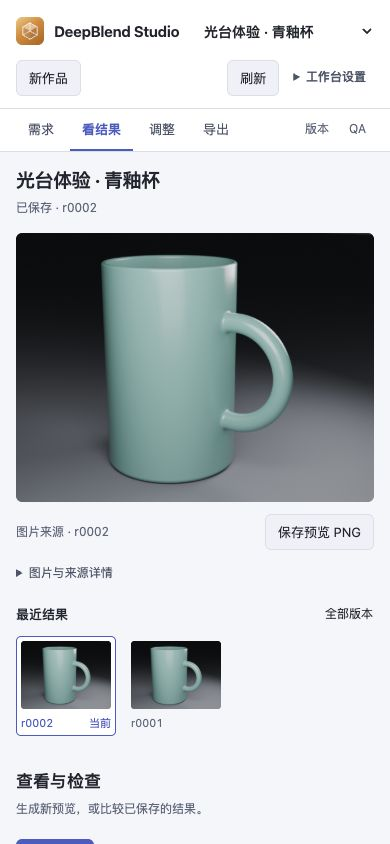
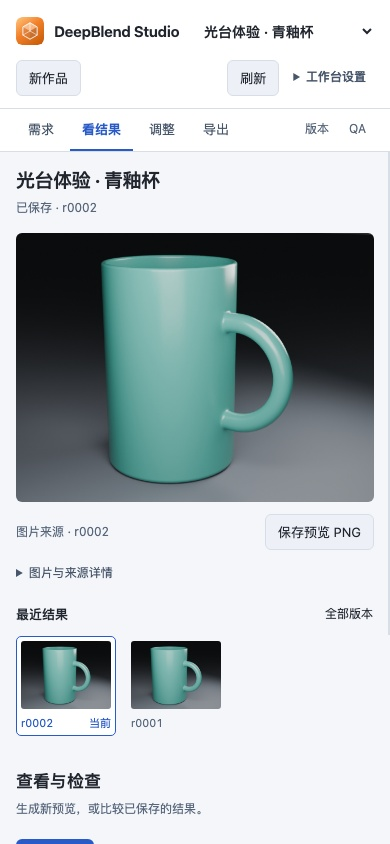
fix: align fitted-view contracts and current workbench provenance

diff --git a/packages/deepblend/tool/lib/tools.js b/packages/deepblend/tool/lib/tools.js
@@ -166,7 +166,14 @@ function cameraFit(ctx) {
           throw new BlenderError(BlenderErrorCode.RUNTIME_UNAVAILABLE,
             'This Host cannot save verified fitted views. Update the DeepBlend Host bundle and restart the profile before retrying.')
         }
-        const { data, canonicalWarnings } = await canonicalCall(resolved.studio.fitCamera({ ...args, signal: exec?.signal }), warning)
+        const { projectId, baseRevision, entityIds, cameraId, fittedCameraId, frame, margin, renderPreview, idempotencyKey, ...extra } = args
+        const { data, canonicalWarnings } = await canonicalCall(resolved.studio.fitCamera({
+          ...extra, projectId, baseRevision, entityIds, cameraId, fittedCameraId, frame,
+          ...(margin === undefined ? {} : { margin }),
+          ...(renderPreview === undefined ? {} : { renderPreview }),
+          ...(idempotencyKey === undefined ? {} : { idempotencyKey }),
+          signal: exec?.signal,
+        }), warning)
         const value = { ok: true,
           text: renderSuccess(`${data.idempotentReplay === true ? 'Reused' : 'Saved'} fitted view "${data.cameraFitReceipt?.fittedCameraId ?? args.fittedCameraId}" in revision ${data.revision}.`, data,
             { warnings: [...(data.warnings ?? []), ...canonicalWarnings] }), data }

diff --git a/deepblend/docs/assets/lighttable/README.md b/deepblend/docs/assets/lighttable/README.md
@@ -1,11 +1,11 @@
 # 光台工作台截图
 
-`workbench.png`（1440×1013）与 `narrow.png`（390×844）于 2026-10-26 从运行中的 DSH 工作台通过真实浏览器操作截取，已逐张查看。画面展示原创青釉杯作品的已保存版本 `r0002`、实际预览和版本缩略图。图片由 DeepBlend contributors 制作，按仓库的 MIT 许可发布。
+`workbench.png`（1440×1013）与 `narrow.png`（390×844）于 2026-10-26 从隔离 DSH 0.2.1 工作台通过真实 Chrome 浏览器操作复拍，已逐张查看。画面展示原创青釉杯作品的已保存版本 `r0002`、实际 640×480 预览和版本缩略图。图片由 DeepBlend contributors 制作，按仓库的 MIT 许可发布。
 
-[来源清单](manifest.json)中的 `capture.capturedUiSha256` 绑定拍摄时加载的 `packages/deepblend/ui/lib/client.js`，不将后续代码冒充为当时的画面。本次通过实际浏览器中的启动图、已加载的预览与服务端返回的完整客户端字节核对来源；没有读取浏览器资源时序。此次仅复拍界面，没有重新执行原生渲染验收。
+[来源清单](manifest.json)中的 `capture.capturedUiSha256` 绑定当前 `packages/deepblend/ui/lib/client.js`。拍摄使用仓库的 `deepblend/tools/browser-driver.mjs`，从浏览器资源时序和 CDP 缓存读取实际加载的完整应用脚本，与服务端整个响应逐字节核对；其中包含当前客户端的完整源代码。还单独核对了该客户端的完整 HTTP 响应。没有将旧截图重新标注成新代码的画面。
 
-复拍时启动当前 DSH 工作台，载入已有青釉杯作品及其预览，重新加载页面并进入“看结果”，分别在 1440×1013 和 390×844 视口截图。原始文件保留在本地 `.tmp-assembly-docs-lighttable-v1/lighttable-desktop.png` 与 `lighttable-narrow.png`；浏览器实际返回 JPEG 字节。使用 Pillow 以原尺寸、原色彩模式转存为 PNG，重新解码后逐字节核对像素完全一致，没有裁剪、缩放、调色或加字。清单同时记录原始文件摘要、解码像素摘要与发布 PNG 的摘要、字节数和尺寸。
+复拍在 `.tmp-framing-docs-lighttable-v2` 中建立当前源码和既有杯子项目的隔离副本，重新加载页面并进入“看结果”，分别在 1440×1013 和 390×844 视口截图。浏览器原始 JPEG 保留为 `lighttable-desktop.png` 与 `lighttable-narrow.png`；文件名延续来源记录，实际格式由文件头确认。用 Pillow 以原尺寸和 RGB 模式转存为 PNG，再重新解码，逐字节核对像素完全一致。没有裁剪、缩放、调色、加字或生成界面内容。
 
-PNG 内另嵌入了实际拍摄来源说明，未改变解码像素。
+PNG 另嵌入实际拍摄来源说明，嵌入前后解码像素不变。复制的 30 份 Host 文件在拍摄前后摘要保持一致；本次没有场景写入、模型请求或新的原生渲染，不替代其他独立原生验收。
 
-旧的工作台截图、版本对比和渲染拼图仍保留在 [`docs/images`](../../images/manifest.json)，由 `deepblend/tools/capture-docs-images.mjs` 生成；这里的两张截图具有独立来源。
+更早的工作台截图、版本对比和渲染拼图仍保留在 [`docs/images`](../../images/manifest.json)，由 `deepblend/tools/capture-docs-images.mjs` 生成；这里的两张截图具有独立来源。

diff --git a/deepblend/docs/assets/photography-reuse/README.md b/deepblend/docs/assets/photography-reuse/README.md
@@ -1,11 +1,9 @@
-# 摄影来源复用截图
+# 复用已保存摄影设置的界面截图
 
-`draft.png`（1440×1013）与 `narrow.png`（390×844）于 2026-10-26 从运行中的 DSH 工作台通过真实浏览器操作截取，并逐张查看。画面展示将青釉杯作品 `project:r0001` 的 `hero` 摄影设置（60 mm）应用到基于 `r0002` 的浏览器草稿。图片由 DeepBlend contributors 制作，按仓库的 MIT 许可发布。
+`draft.png`（1440×1013）与 `narrow.png`（390×844）于 2026-10-26 在隔离 DSH 0.2.1 中通过仓库 CDP 浏览器驱动复拍，已逐张查看。截图展示在当前光台工作台“调整 → 摄影与灯光”中，从保存的 `project:r0001` 读取 `hero` 相机（60 mm）与灯光，并套用到基于 `r0002` 的浏览器草稿。画面中的杯子预览仍是已保存的 `r0002`，没有把草稿冒充为已渲染结果。
 
-复拍使用独立 DSH 0.2.1 环境和已有作品的私有副本，打开“调整 → 摄影”，选择来源版本与相机后“应用到草稿”。本次未保存草稿、未触发渲染，也未调用模型；复拍前后 31 个 Host 文件的字节完全一致。窄屏记录了草稿来源、镜头、视口宽度和来源控件边界。
+客户端源摘要、实际加载的整个浏览器应用脚本与 HTTP 响应逐字节核对。此轮只读取已保存来源和修改浏览器草稿，没有点击保存或渲染，没有模型请求。隔离副本的 30 份 Host 文件在操作前后字节一致。
 
-[来源清单](manifest.json)与[本次复拍记录](capture-report.json)将当前客户端摘要、浏览器 DOM 中的启动图及草稿状态、服务返回的完整客户端字节关联。浏览器环境不提供资源时序，因此没有将其列为已验证项。原始截图保存在本地 `.tmp-assembly-docs-lighttable-v1/photography-desktop.png` 与 `photography-narrow-final.png`；返回内容为 JPEG，经 Pillow 按原尺寸和 RGB 模式转存为 PNG，再逐字节核对解码像素，没有裁剪、缩放、调色或加字。
+[来源清单](manifest.json)与[界面记录](capture-report.json)绑定当前客户端摘要。原始 JPEG、DOM 读回、动作记录和完整脚本来源保存在 `.tmp-framing-docs-lighttable-v2`。JPEG 以原尺寸和 RGB 模式转为 PNG；重新解码后每个像素相同，未裁剪、缩放、调色或加字。PNG 中嵌入拍摄来源说明，嵌入前后像素不变。
 
-清单中的 `nativeRegression` 与顶层原生验收来源字段保留此前 36 项检查的原始绑定。本次仅刷新截图和当前界面来源，不重新声明该原生验收。摄影功能操作说明见[摄影编辑器](../../photography-editor.md)。
-
-PNG 内嵌有实际拍摄来源说明，解码像素不变。
+清单中的 `nativeRegression` 保留先前 36 项真实摄影回归的原始来源、报告和请求摘要。本次界面复拍没有重跑那项原生回归，也没有把旧报告摘要更新成新来源。全部图片由 DeepBlend contributors 制作，按仓库 MIT 许可发布。

diff --git a/deepblend/docs/usage.md b/deepblend/docs/usage.md
@@ -60,6 +60,7 @@ blender_export                发布交付包（编码 + 校验 + 写清单）
 | `blender_scene_get` | 读 | 场景摘要，或 `full:true` 拿整份 SceneSpec |
 | `blender_scene_patch` | **写** | 按明确操作修改场景，成功后保存一个不可变 revision |
 | `blender_place_on_surface` | **写** | 按实际表面把模型放到指定承托对象上，保留朝向并保存预览 |
+| `blender_camera_fit` | **写** | 保留原相机和动画，另存完整部件在明确帧入镜的静态机位及预览 |
 | `blender_asset_ingest` | 写文件 | 把素材收进项目。本地路径直接收，网络地址要你批准；**它不提交 revision**，收完还要用 `asset.add` 声明 |
 | `blender_scene_validate` | 读 | 校验当前场景，或 `dryRun` 校验一个还没提交的 patch |
 | `blender_preview_render` | 读 | 渲一张预览；显式 beauty/clay 模式生成独立检查图并附图 |
